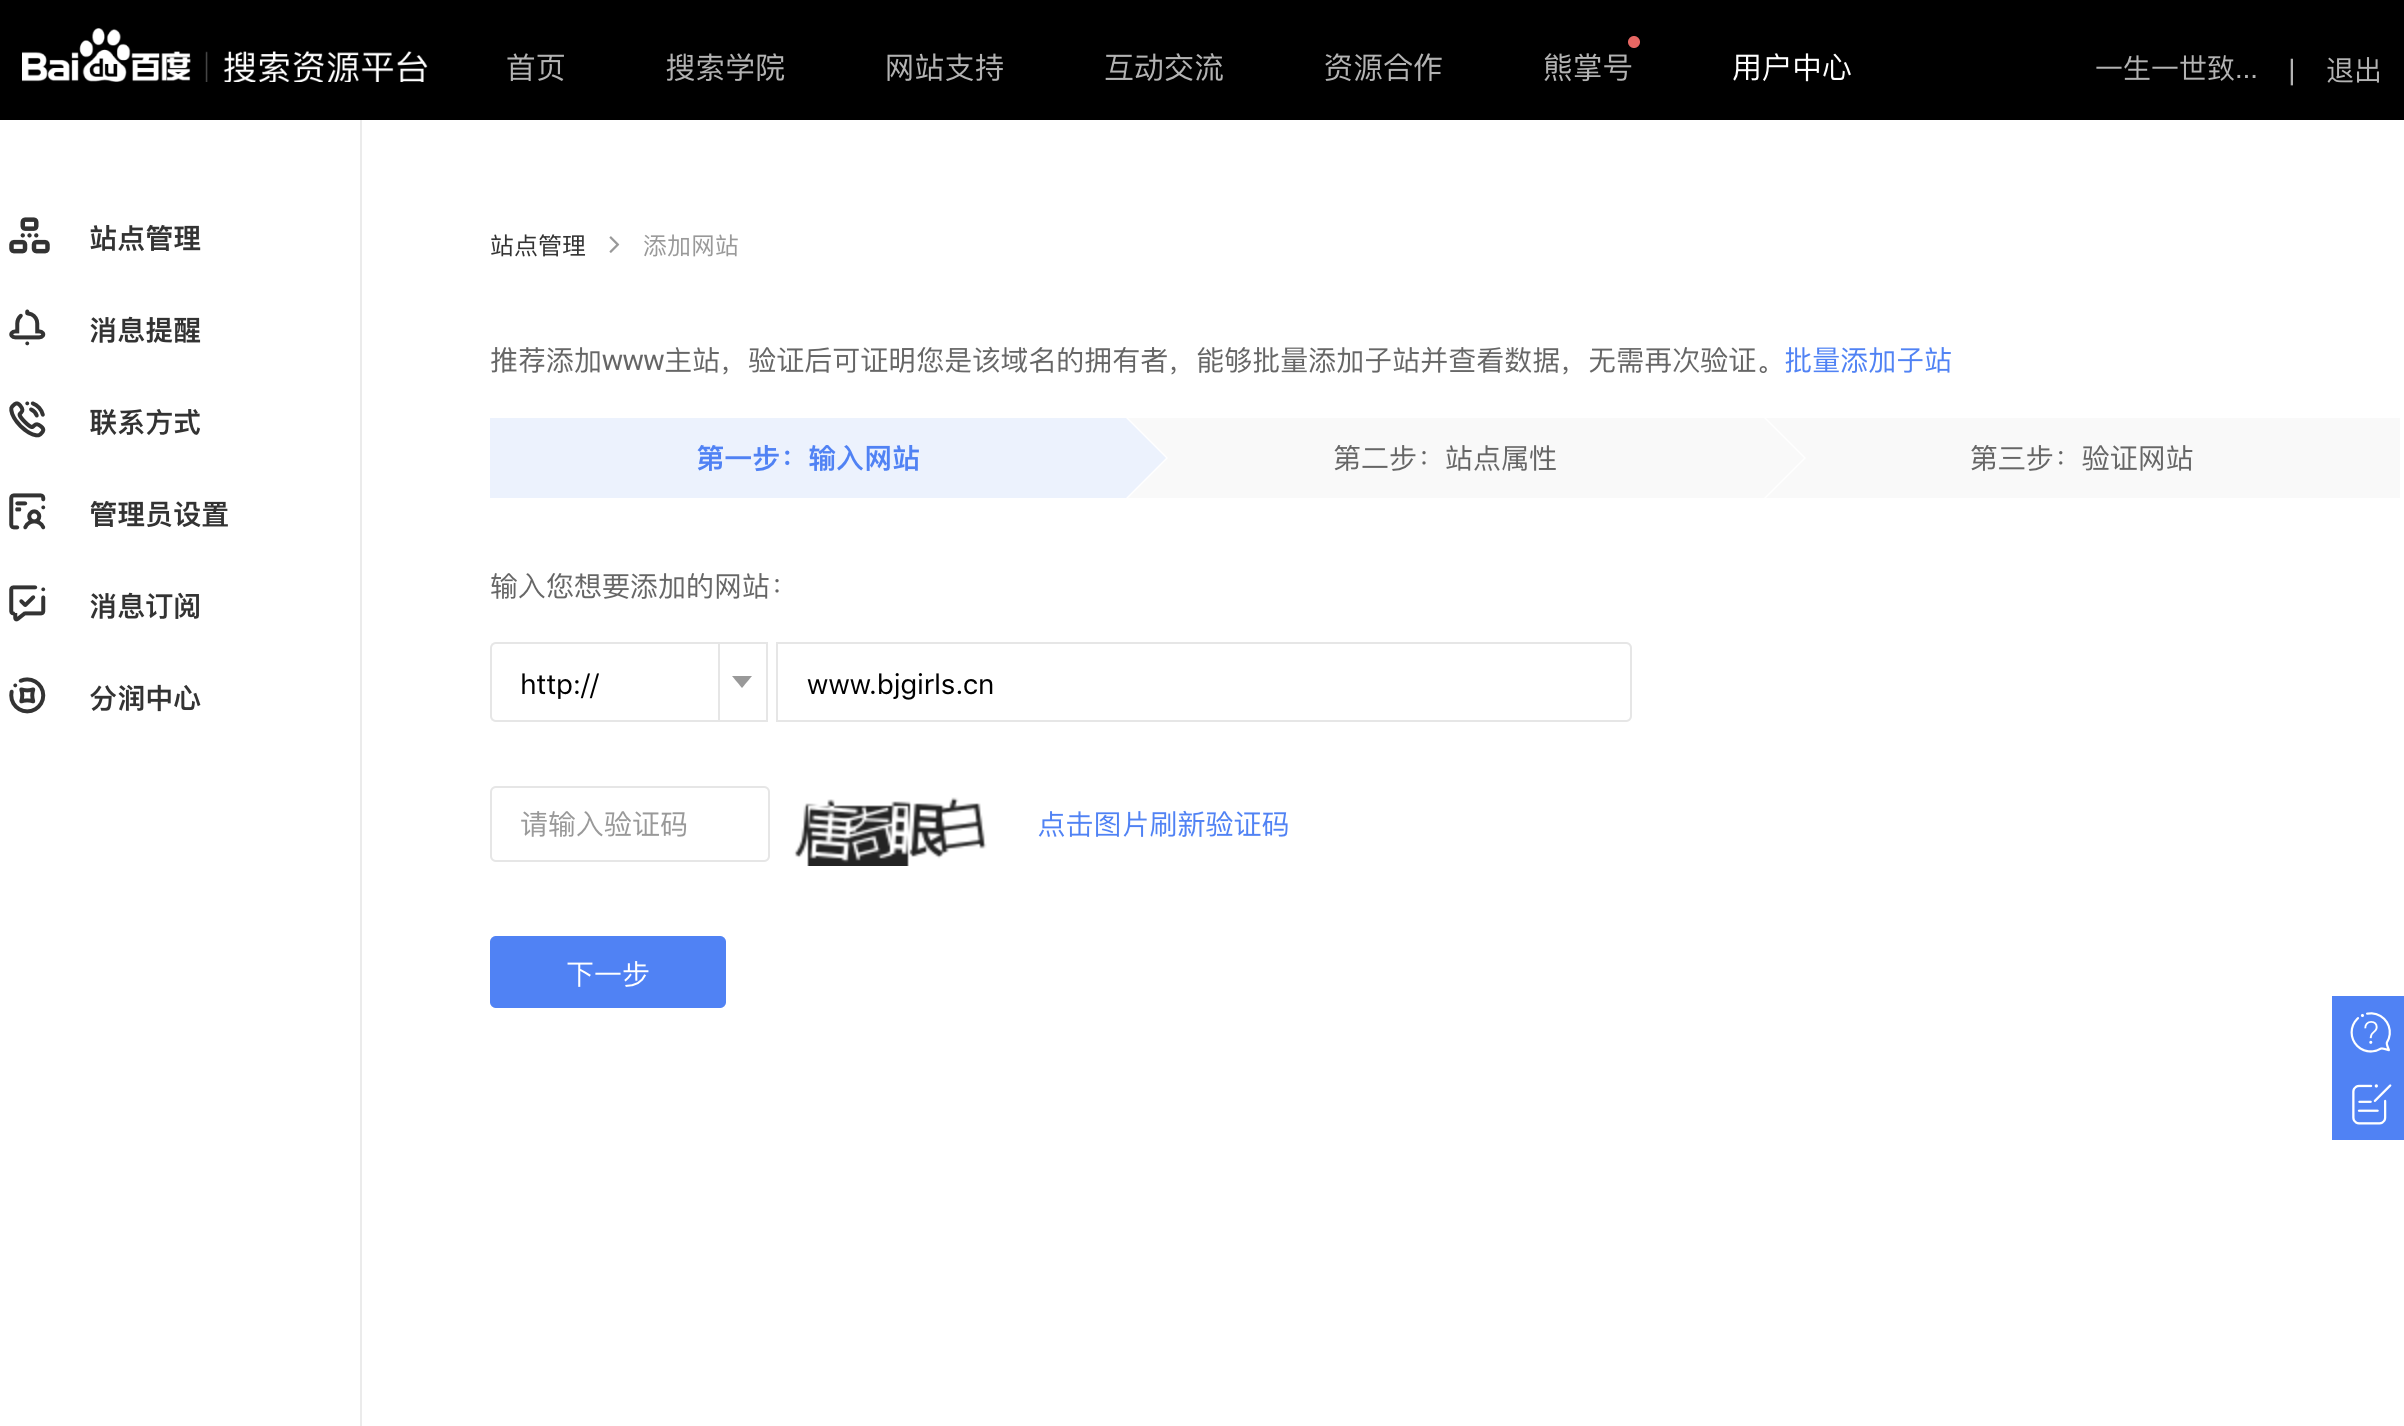
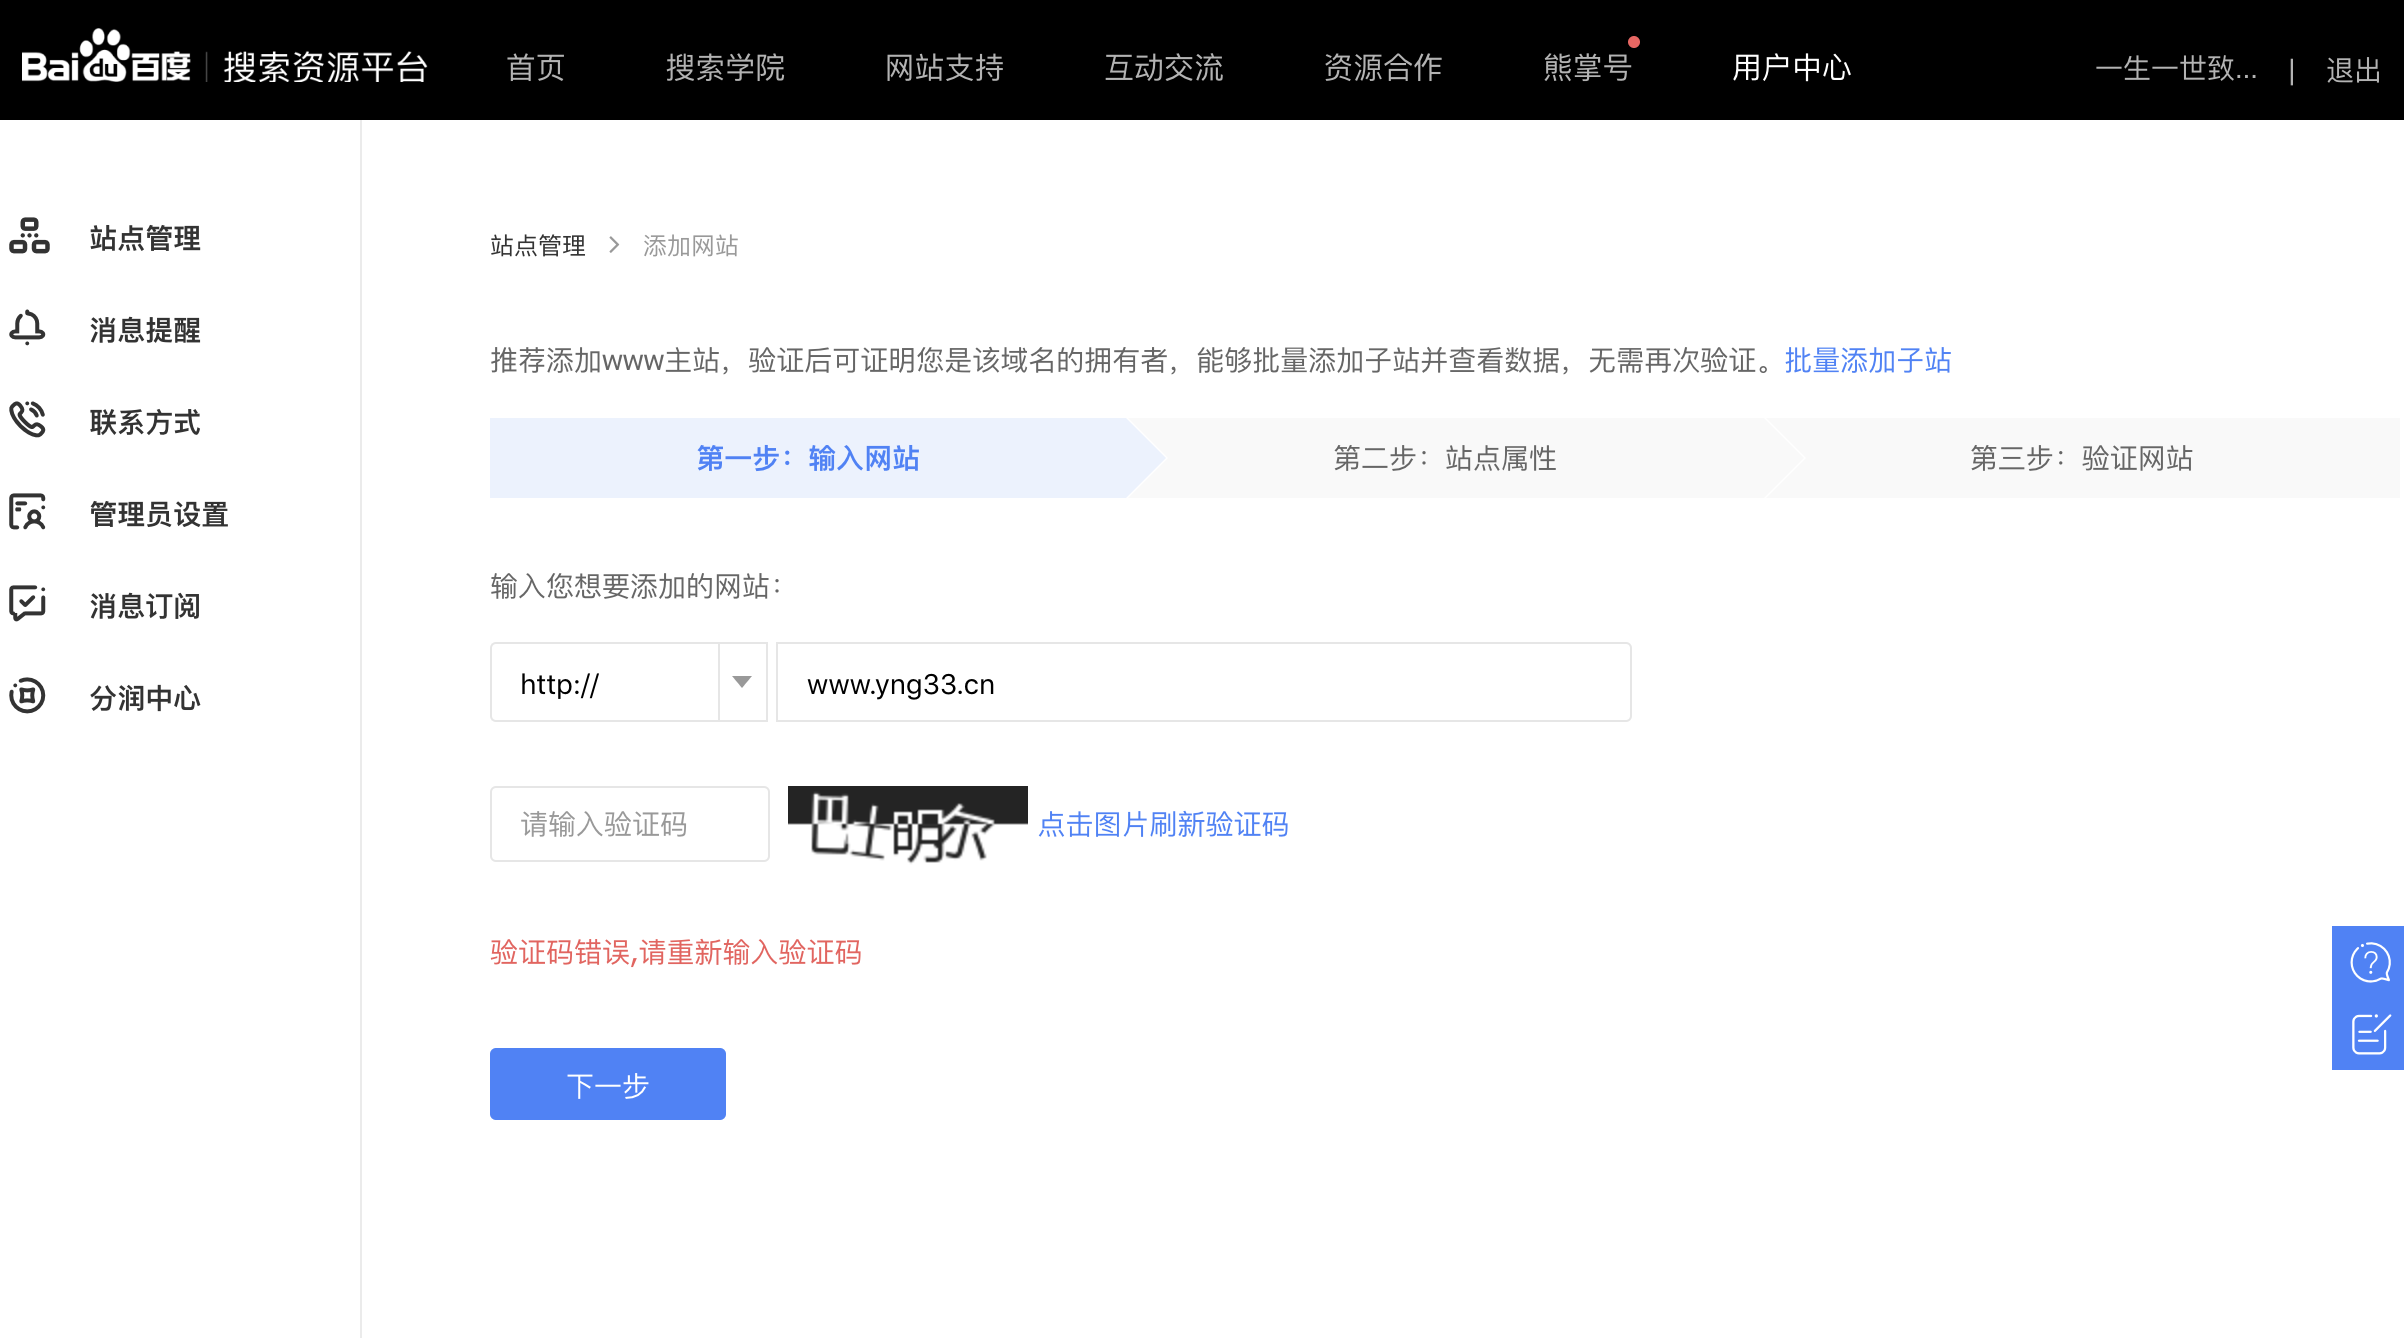
last change

diff --git a/BDVerify.py b/BDVerify.py
@@ -7,7 +7,7 @@ from mylib.YDMHTTP import YDMHttp
 from selenium.webdriver.support.wait import WebDriverWait
 from selenium.webdriver.support import expected_conditions as EC
 from selenium.common.exceptions import TimeoutException
-from selenium.common.exceptions import NoSuchElementException, ElementNotVisibleException
+from selenium.common.exceptions import NoSuchElementException, ElementNotVisibleException, WebDriverException
 
 
 class BDVerify:
@@ -33,18 +33,17 @@ class BDVerify:
 
     def add_url(self, url):
         self.driver.get('https://ziyuan.baidu.com/site/siteadd')
-        print('更改协议头')
         http = self.driver.find_element_by_xpath("//div[@id='protocolSelect']/input")
         self.driver.execute_script("arguments[0].value = 'http://'", http)
-        print('添加url:' + url)
         send_url = self.driver.find_element_by_class_name('add-site-input')
         send_url.send_keys('www.' + url)
         self.driver.find_element_by_id('site-add').click()
         time.sleep(2)
-        self.driver.find_element_by_id('captcha-img').click()
         while True:
             try:
-                WebDriverWait(self.driver, 4).until(EC.visibility_of(self.driver.find_element_by_class_name('ml5')))
+                self.driver.find_element_by_id('captcha-img').click()
+                WebDriverWait(self.driver, 10).until(EC.visibility_of(self.driver.find_element_by_class_name('ml5')))
+                time.sleep(2.5)
                 code = self.get_code('add_url')
                 input_code = self.driver.find_element_by_id('captcha')
                 input_code.send_keys(code)
@@ -64,6 +63,22 @@ class BDVerify:
                     input_code.clear()
             except ElementNotVisibleException:
                 print('没有验证码')
+                try:
+                    time.sleep(1)
+                    self.driver.find_element_by_id('check0')
+                    return True
+                except NoSuchElementException:
+                    xpath = "/html/body/div[2]/div[3]/div[2]/div[4]/div[1]/span"
+                    res = self.driver.find_element_by_xpath(xpath).text
+                    if res == '您已添加过这个网站':
+                        self.add_sitemap(url)
+                        return False
+                    print('验证失败')
+                    input_code = self.driver.find_element_by_id('captcha')
+                    input_code.clear()
+            except NoSuchElementException:
+                print('没有验证码')
+                return True
 
     def set_item(self, select):
         print('选择领域')
@@ -86,7 +101,7 @@ class BDVerify:
         if code_type == 'add_url':
             im = im.crop((790, 790, 1000, 860))
         else:
-            im = im.crop((730, 690, 900, 770))
+            im = im.crop((745, 690, 965, 780))
         im.save('code.png')
         # 查询余额
         balance = self.yundama.balance()
@@ -108,6 +123,7 @@ class BDVerify:
                 os.remove(self.upload_path + filename[0])
         except IndexError:
             pass
+        time.sleep(1)
         WebDriverWait(self.driver, 5).until(EC.visibility_of(self.driver.find_element_by_xpath('//*[@id="file"]/p[2]/a')))
         self.driver.find_element_by_xpath("//dd[@id='file']/p[2]/a[1]").click()
         while True:
@@ -117,9 +133,9 @@ class BDVerify:
                 size = os.path.getsize(self.upload_path + name)
                 if name.endswith('.html') and size > 5:
                     print('已找到下载文件' + name)
-                    time.sleep(1)
+                    time.sleep(0.5)
                     break
-            except IndexError:
+            except (IndexError, FileNotFoundError):
                 continue
         print('上传本地文件')
         while True:
@@ -141,8 +157,8 @@ class BDVerify:
                 raise TimeoutException
             files = self.sftp.listdir(self.remote_path)
             for name in files:
-                print(name.strip('\n') + '  对比文件  ' + filename[0])
                 if str(name) == str(filename[0]):
+                    print(name.strip('\n') + '  对比文件  ' + filename[0])
                     state = False
                     break
             print('等待上传...')
@@ -167,11 +183,12 @@ class BDVerify:
         select = self.driver.find_element_by_xpath("//*[@id='submit-method-type']/li[@tab-value='sitemap']")
         self.driver.execute_script("arguments[0].scrollIntoView();", select)  # 拖动到可见的元素去
         select.click()
+        time.sleep(2)
         text = self.driver.find_element_by_xpath('//*[@id="url-list"]/tbody/tr/td[2]').text
         if text == '暂无数据':
             select = self.driver.find_element_by_id("urls")
             select.click()
-            select.send_keys('www.%s/sitemap.xml' % url)
+            select.send_keys('www.%s/sitemap.xml' % url.strip('\n'))
             select = self.driver.find_element_by_xpath("//*[@id='captcha-img']/span")
             select.click()
             WebDriverWait(self.driver, 4).until(EC.visibility_of(self.driver.find_element_by_class_name('ml5')))
@@ -180,9 +197,12 @@ class BDVerify:
                     verify = self.get_code('add_sitemap')
                     select = self.driver.find_element_by_id("captcha")
                     select.send_keys(verify)
-                    self.driver.find_element_by_id('btn-submit').click()
+                    try:
+                        self.driver.find_element_by_id('btn-submit').click()
+                    except WebDriverException:
+                        pass
                     xpath = '//*[@id="dialog-foot"]/button'
-                    WebDriverWait(self.driver, 2).until(EC.visibility_of(self.driver.find_element_by_xpath(xpath)))
+                    WebDriverWait(self.driver, 4).until(EC.visibility_of(self.driver.find_element_by_xpath(xpath)))
                     self.driver.find_element_by_xpath(xpath).click()
                     print('添加成功')
                     break
@@ -195,14 +215,43 @@ class BDVerify:
 
 if __name__ == '__main__':
     BD = BDVerify()
+    num = len(linecache.getlines('domain.txt'))
+    temp_num = 0
+    item_list = ['影视动漫', '生活服务', '工具服务及在线查询',
+                 '教育培训', '游戏', '书籍文档', '信息技术',
+                 '网络购物', '医疗', '新闻资讯', '生活和情感',
+                 '金融', '社交网络平台', '音乐', '机动车', '生产制造',
+                 '政策法规', '综合门户', '历史军事','母婴', '招商联盟',
+                 '旅游', '民生', '体育运动', '其它']
+    try:
+        for x in range(1, num + 1):
+            domain = linecache.getline('domain.txt', x)
+            item = linecache.getline('item.txt', x).split(' ')
+            print('当前运行至第 %s 行 域名为 http://www.%s' % (x, domain))
+            temp_num = x - 1
+            print('领域设置为 %s %s %s' % (item_list[int(item[0])], item_list[int(item[1])], item_list[int(item[2])]))
+            result = BD.add_url(domain)
+            print(result)
+            if result:
+                BD.set_item([9, 17, 24])
+                BD.file_verify()
+                BD.add_sitemap(domain)
+    except:
+        print('删除已经成功添加的域名 %s 行 ' % temp_num)
+        with open("domain.txt", "r", encoding="utf-8") as f:
+            lines = f.readlines()
+        with open("domain.txt", "w", encoding="utf-8") as f:
+            num = 0
+            for line in lines:
+                if num >= temp_num:
+                    f.write(line)
+                num += 1
+        with open("item.txt", "r", encoding="utf-8") as f:
+            lines = f.readlines()
+        with open("item.txt", "w", encoding="utf-8") as f:
+            num = 0
+            for line in lines:
+                if num >= temp_num:
+                    f.write(line)
+                num += 1
 
-    domain = linecache.getline('domain.txt', 1)
-    item = linecache.getline('item.txt', 1)
-    print(domain)
-    print(item)
-
-    # result = BD.add_url('bjgirls.cn')
-    # print(result)
-    # if result:
-    #     BD.set_item([9, 17, 24])
-    #     BD.file_verify()
